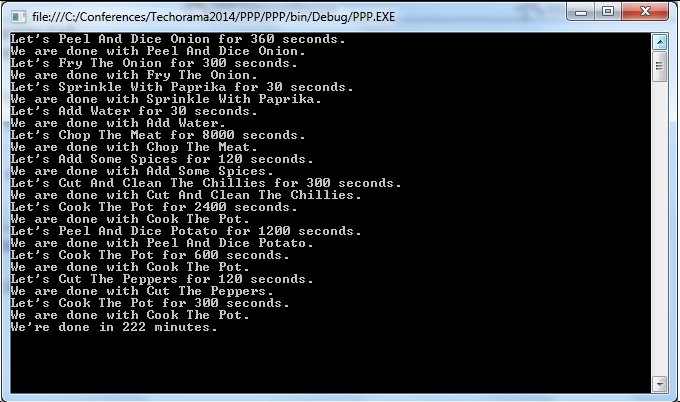
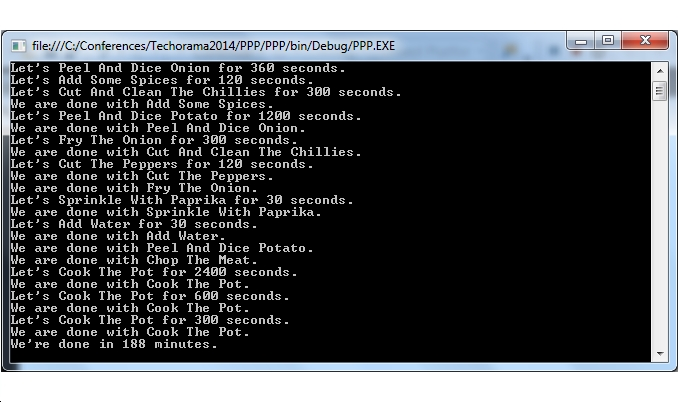
Finished the split the tasks

diff --git a/PPP/GoulashRecipe.cs b/PPP/GoulashRecipe.cs
@@ -53,14 +53,25 @@
 
 
             // Step3()
-            PeelAndDice(Ingredients.Potatoes);
-            CookThePot(600);
+            //PeelAndDice(Ingredients.Potatoes);
+            //CookThePot(600);
+
+            Task peelAndCutPotatoes = Task.Factory.StartNew(
+                () => PeelAndDice(Ingredients.Potatoes));
+
+            Task cook2 = Task.Factory.ContinueWhenAll(new[] { cook1, peelAndCutPotatoes },
+                _ => CookThePot(600));
 
             // Step4()
-            CutThePeppers();
-            CookThePot(300);
+            //CutThePeppers();
+            //CookThePot(300);
+
+            Task cutThePeppers = Task.Factory.StartNew(() => CutThePeppers());
+            Task finalStep = Task.Factory.ContinueWhenAll(new[] { cook2, cutThePeppers },
+                _ => CookThePot(300));
         
             // Done!
+            finalStep.Wait();
         }
 
         private static void PeelAndDice(Ingredient[] ingredients)
